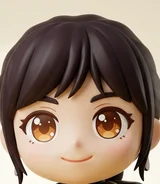
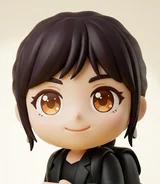
Pairs game: ease levels 4-10 and show whole heads on two tiles
Sixteen faces from level 4 left too few open pairs on a dense board, so
faces now build up more slowly and those levels get more time. A pair
that can't connect costs 1 second. Re-crop the two tightest faces.

diff --git a/public/game/js/tiles-logic.js b/public/game/js/tiles-logic.js
@@ -17,31 +17,31 @@ export const LEVELS = [
     rows: ['..#####', '..#####', '..#...#', '..#...#', '###.###', '###.###'],
   },
   { // 第四關：吉他
-    kinds: 16, secs: 46, slide: 'up',
+    kinds: 12, secs: 56, slide: 'up',
     rows: ['...##..', '...##..', '...##..', '..####.', '.######', '.######', '.######', '..####.'],
   },
   { // 第五關：麥克風
-    kinds: 16, secs: 48, slide: 'left',
+    kinds: 13, secs: 60, slide: 'left',
     rows: ['.#####.', '#######', '#######', '.#####.', '...#...', '...#...', '..###..', '.#####.'],
   },
   { // 第六關：星星
-    kinds: 16, secs: 46, slide: 'right',
+    kinds: 13, secs: 58, slide: 'right',
     rows: ['...#...', '..###..', '#######', '#######', '.#####.', '.#####.', '.##.##.', '.#...#.'],
   },
   { // 第七關：鋼琴鍵盤
-    kinds: 16, secs: 44, slide: 'down',
+    kinds: 14, secs: 52, slide: 'down',
     rows: ['#######', '#######', '#.#.#.#', '#.#.#.#', '#.#.#.#', '#.#.#.#', '#.#.#.#'],
   },
   { // 第八關：洗衣板
-    kinds: 16, secs: 44, slide: 'left',
+    kinds: 14, secs: 52, slide: 'left',
     rows: ['#######', '#.....#', '#######', '#.....#', '#######', '#.....#', '#######', '#.....#'],
   },
   { // 第九關：舞台拱門
-    kinds: 16, secs: 56, slide: 'up',
+    kinds: 15, secs: 72, slide: 'up',
     rows: ['#######', '#######', '#######', '#######', '###.###', '##...##', '##...##', '##...##'],
   },
   { // 第十關：滿滿一面牆，一開始只有外圈的牌連得到
-    kinds: 16, secs: 68, slide: 'down',
+    kinds: 16, secs: 88, slide: 'down',
     rows: ['#######', '#######', '#######', '#######', '#######', '#######', '#######', '#######'],
   },
 ];

diff --git a/public/game/js/tiles.js b/public/game/js/tiles.js
@@ -9,7 +9,7 @@ const HINTS = 1; // 每關幾次提示
 const SHUFFLES = 1; // 每關幾次洗牌
 const COMBO_SECS = 4; // 幾秒內再消一對算連擊
 const WARN_SECS = 10; // 剩幾秒開始滴答
-const NO_PATH_SECS = 2; // 一樣的牌卻連不起來，扣幾秒
+const NO_PATH_SECS = 1; // 一樣的牌卻連不起來，扣幾秒
 const STUCK_SECS = 5; // 沒牌可消又沒有洗牌次數時，自動洗牌扣幾秒
 const ARROWS = { down: '↓', up: '↑', left: '←', right: '→' };
 const NEXT_LEVEL_DELAY = 1500;
